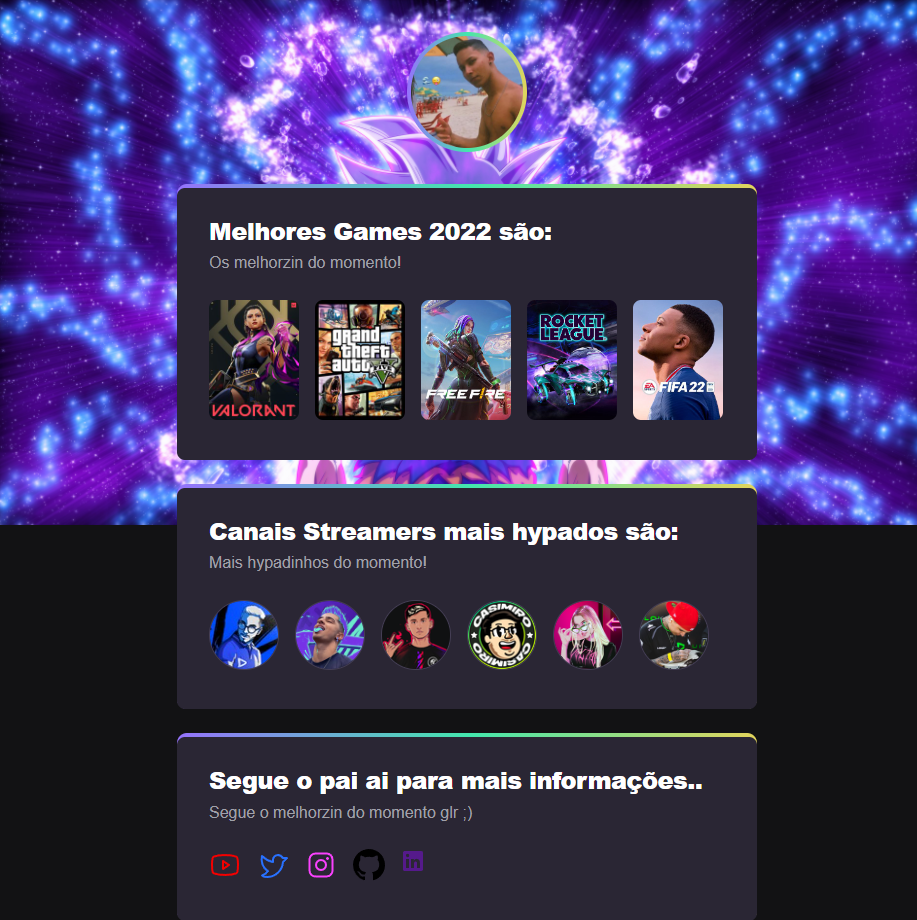
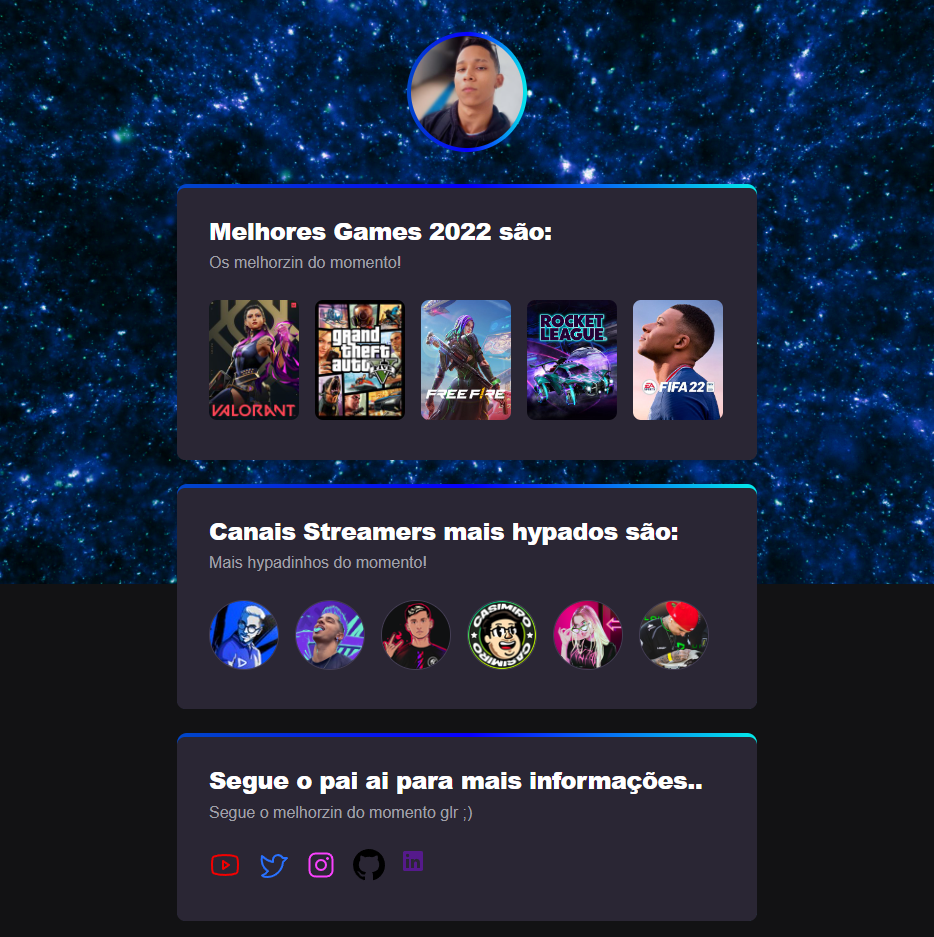
create readme

diff --git a/styles.css b/styles.css
@@ -25,7 +25,7 @@ header{
 header div{ /*foto de perfil*/
     width: 120px;
     margin: auto;
-    background-image: linear-gradient(90deg, #9572fc 0%, #43e7ad 50.52%, #E2D45C 100%);
+    background-image: linear-gradient(90deg, #0046c7 0%, #0800ff 50.52%, #04eaea 100%);
     
     border-radius: 50%;
     
@@ -52,7 +52,7 @@ main {
 }
 section{
     color: white;
-    background-image: linear-gradient(90deg, #9572fc 0%, #43e7ad 50.52%, #E2D45C 100%);
+    background-image: linear-gradient(90deg, #0046c7 0%, #0800ff 50.52%, #04eaea 100%);
     padding-top: 4px;
     border-radius: 10px;
 
